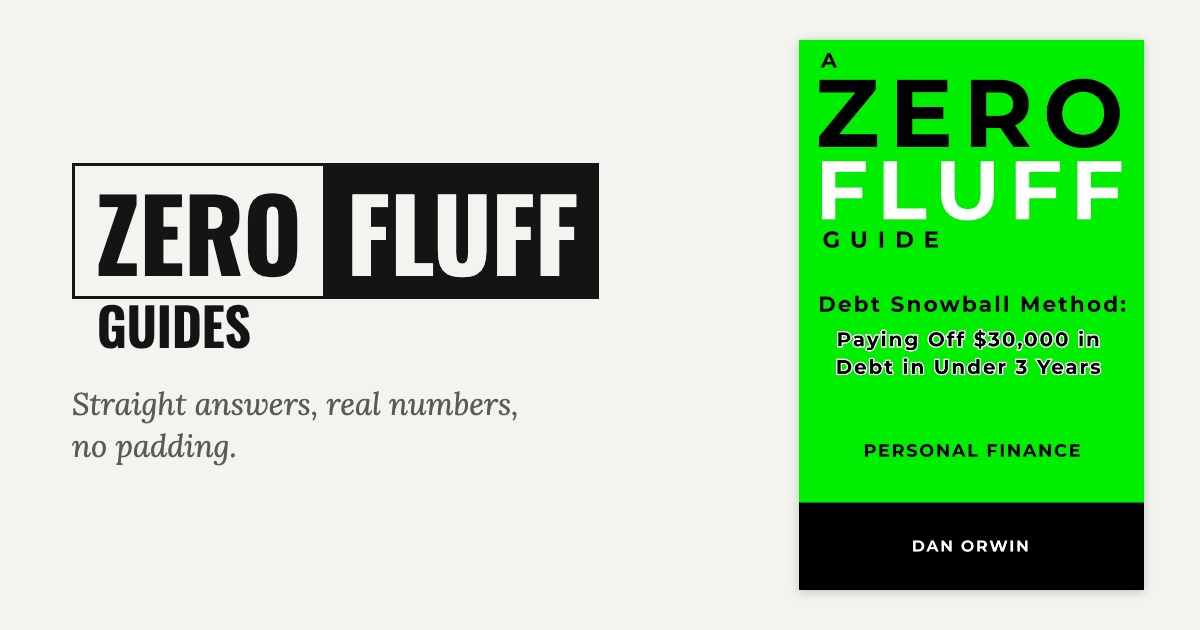
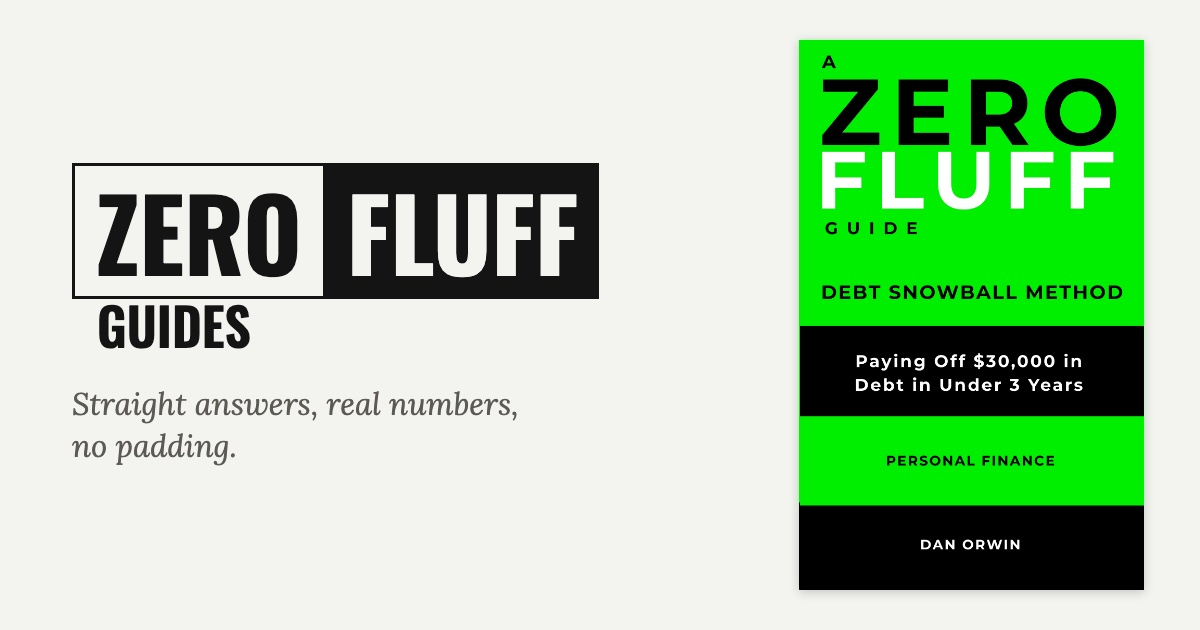
Debt Snowball: final cover in library + share image, ?v=2 on image URLs
Web cover 600x957 q85 and 1200x630 share image rebuilt from the final
Drive ZERO.jpg (Oct 20, subtitle on a black band). Same paths and
layout; ?v=2 on og:image, twitter:image and the library cover so
browsers and social sites fetch the new files. Stripe stays #00EF00.

Claude-Session: https://claude.ai/code/session_01VK39D9B8TVfYpwQ8aJiqLP

diff --git a/index.html b/index.html
@@ -11,13 +11,13 @@
 <meta property="og:url" content="https://zerofluffguides.com">
 <meta property="og:type" content="website">
 <meta property="og:site_name" content="Zero Fluff Guides">
-<meta property="og:image" content="https://zerofluffguides.com/assets/share/zero-fluff-guides-share.jpg">
+<meta property="og:image" content="https://zerofluffguides.com/assets/share/zero-fluff-guides-share.jpg?v=2">
 <meta property="og:image:width" content="1200">
 <meta property="og:image:height" content="630">
 <meta name="twitter:card" content="summary_large_image">
 <meta name="twitter:title" content="Zero Fluff Guides">
 <meta name="twitter:description" content="Short, direct books built around one problem and one working plan to fix it. Real numbers, real steps, and free tools that do the math for you.">
-<meta name="twitter:image" content="https://zerofluffguides.com/assets/share/zero-fluff-guides-share.jpg">
+<meta name="twitter:image" content="https://zerofluffguides.com/assets/share/zero-fluff-guides-share.jpg?v=2">
 <link rel="preconnect" href="https://fonts.googleapis.com">
 <link rel="preconnect" href="https://fonts.gstatic.com" crossorigin>
 <link href="https://fonts.googleapis.com/css2?family=Oswald:wght@500;600;700&family=Lora:ital,wght@0,400;0,600;1,400&display=swap" rel="stylesheet">
@@ -278,7 +278,7 @@
     <div class="book-row">
       <div class="niche-tab finance debt-snowball"></div>
       <div class="book-main">
-      <img class="book-cover" src="/assets/covers/debt-snowball.jpg" width="600" height="957" alt="Debt Snowball Method by Dan Orwin cover">
+      <img class="book-cover" src="/assets/covers/debt-snowball.jpg?v=2" width="600" height="957" alt="Debt Snowball Method by Dan Orwin cover">
       <div class="book-body">
         <div class="book-meta">
           <span class="niche-name finance">Personal Finance</span>
